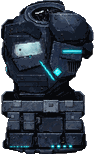
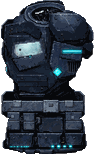
Bulwark torso: paint the cyan chest slash out of the Wave 8 master and re-derive

Changed region(s): [[0.383, 0.3896, 0.617, 0.5455], [0.383, 0.3377, 0.4255, 0.3636]]

diff --git a/src/test/overhaulVisuals.test.ts b/src/test/overhaulVisuals.test.ts
@@ -371,6 +371,10 @@ describe('performance + payload budgets (§4.9)', () => {
     // SI torso slash fix (2026-11-11): part-si-torso re-derived
     // from the slash-painted-out Wave 8 master, 6,085 → 5,936 B
     // (−149 B); the ceiling literal follows the total +1.
-    expect(total).toBeLessThan(36_204_366 + 1);  });
+    // Bulwark torso slash fix (2026-11-11): part-bulwark-torso
+    // re-derived from the slash-painted-out Wave 8 master (the
+    // framed chest diamond accent preserved pixel-exact), 6,596 →
+    // 6,497 B (−99 B); the ceiling literal follows the total +1.
+    expect(total).toBeLessThan(36_204_267 + 1);  });
 
 });

diff --git a/wiki/Changelog.md b/wiki/Changelog.md
@@ -21,7 +21,8 @@ Per-release notes for CyberCache, newest first. Entries are written by hand in t
 - **Cache Fragments are gone from the game's face** — the fragment currency was abolished a while ago (whole cache keys are the only cache currency), but its name and mark still lingered in the registries behind the wallet and the reward chips. Those are deleted now. Old records that mention fragments stay readable as history; nothing you own was touched.
 - **Your shields, relics, class mods and ordnance are paintings now** — every one of the five shield forms, all sixteen relics, the four class-mod casings and the four ordnance forms renders as its full painterly portrait everywhere it appears: gear list, inspect sheet, loadout, compare and this manual's plates all show the same picture for the same item. A shield's element still recolors its glow — the blue Shock heart of a Nova turns Fire-orange, Cryo-cyan or Void-purple by palette, exactly the surfaces the old plates lit — and the Absorb shield keeps the plasma orb at its heart. A class mod's casing arrives with its deck window empty, and the live node field is drawn into that window from your actual boosts, seated where the casing's window really is; the Void Prism keeps the nebula turning in its eye. Nothing about the items themselves changed — same names, same stats, same effects — only how they're pictured.
 - **Your weapons are paintings now** — every gun in the game pictures as its adopted Top-Choice painting: one portrait for each type × manufacturer, and each named legendary has a portrait of its own, the same picture in your hunter's hands, on its card, and in a market listing. What makes a copy yours rides on top of the painting: its element lights the painting's glow window in the element's colors (a Kinetic gun's window stays plain grey), its affixes stamp their decals onto the body, and its roll quality shows as condition — a beat-up gun looks beat-up and a godroll sparkles. A named legendary is never worn or stamped; its portrait is fixed, exactly as it was made. The old assembled-from-parts look is retired: your rolled parts still count in the stats exactly as before — they just no longer change the silhouette.
-- **The Standard Issue chest plate is unbroken steel now** — the glowing cyan slash that crossed the breastplate is painted out: at the shoulder it read as a third arm, and the plate was never meant to carry it. The slash is gone from the painting itself; every other light on the rig — visor, wrist, the pouch studs — burns exactly as it did, and the Bulwark and Dreadnought plates are untouched.
+- **The Standard Issue chest plate is unbroken steel now** — the glowing cyan slash that crossed the breastplate is painted out: at the shoulder it read as a third arm, and the plate was never meant to carry it. The slash is gone from the painting itself; every other light on the rig — visor, wrist, the pouch studs — burns exactly as it did, and the Dreadnought plate is untouched.
+- **The Bulwark chest plate is unbroken steel now** — the shorter glowing cyan streak that ran beside the Bulwark plate's chest diamond is painted out, the same flaw the Standard Issue plate carried, along with the light it threw on the steel around it. The diamond itself — the framed gem set into the plate — is a deliberate light and burns exactly as it did, and every other accent on the set is untouched.
 - **The far arm sits out the fight** — in the aim stance the far (support) arm used to hang in the gap between the gun arm and the chest, its shoulder hidden, reading as a stray little arm at the armpit. Bracing it under the gun didn't cure the read, so it is simply not drawn in the combat stances now: the game is a strict side view, and in aim and recoil only the gun arm shows. Your shield rides that arm, so it sits out those two stances with it and is back on your arm at rest. The Bulwark and Dreadnought rigs follow the same rule. Every other pose is unchanged.
 - **The reveal's light is a corona now** — the glow behind a risen cache item used to be stacked golden discs, and around a legendary they read as stamped shapes next to the painting. Now the item hangs in a corona of real light: white-hot at the heart, falling off through gold to a warm amber wash, with dozens of fine rays radiating through it, and the slim beam landing in a soft bloom of light on the ground instead of a hard pool. The CACHE DECRYPTED header stays crisp through the peak of it — the beam's light is notched down behind the words over a soft shadow, so nothing washes out. Gold sparks and rising embers ride the column as before, the shockwave ring keeps its stepped edge, and every timing — the beam-in, the rise, the 2.6-second legendary hold — is exactly what it was.
 
@@ -277,9 +278,9 @@ The largest single expansion in the game's history, landing across one weekend:
 <!-- wiki-gen:changelog-ledger -->
 ### Merge ledger
 
-_Every pull request merged since 2026-11-01 (PR #262), recorded exactly as merged — 236 merges. This ledger is the completeness record behind the themed entries above it: if a merge shipped, it is listed here. Generated from master's merge history; see `docs/WIKI.md`._
+_Every pull request merged since 2026-11-01 (PR #262), recorded exactly as merged — 237 merges. This ledger is the completeness record behind the themed entries above it: if a merge shipped, it is listed here. Generated from master's merge history; see `docs/WIKI.md`._
 
-**2026-11-11** — 15 merges
+**2026-11-11** — 16 merges
 
 - #484 — Boss setup-diversity (slice C2): mechanic legs collect + Bishop composite; CryoAmmo re-read measured and dropped
 - #485 — INT-7: Top-Choice cache screen — painted crate, opened ignition frame, buried prop swap
@@ -296,6 +297,7 @@ _Every pull request merged since 2026-11-01 (PR #262), recorded exactly as merge
 - #496 — Painted weapon renderer — Top-Choice paintings as the weapon render (renderer slice)
 - #497 — Aim/recoil poses: far arm braces under the gun arm instead of dangling
 - #498 — Suppress the far arm in aim/recoil: strict side view draws one arm
+- #499 — Reveal Corona: physical light in the cache loot moment (Impeccable direction A) + header law
 
 **2026-11-10** — 15 merges
 
